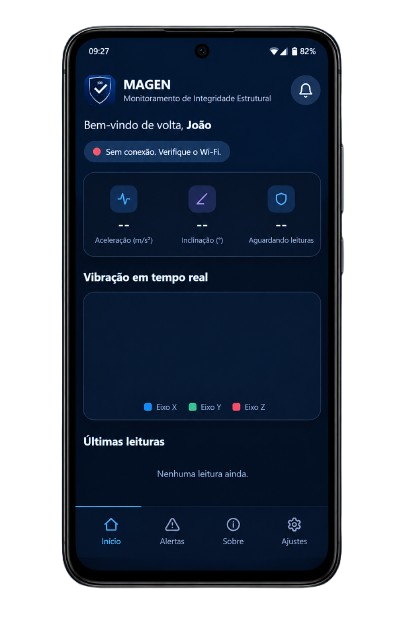
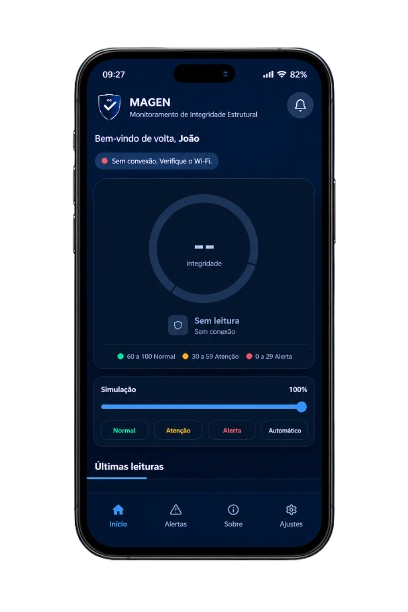
Adição de âncora na seção conheça o app!

Changed region(s): [[0.1489, 0.031, 0.8635, 0.9624], [0.268, 0.5588, 0.4169, 0.5899]]

diff --git a/index.html b/index.html
@@ -251,7 +251,7 @@
       </ul>
 
       <div class="app-stores">
-        <a href="#" class="store-btn" aria-label="Baixar na App Store (simulação)">
+        <a href="https://aplicativomagen.vercel.app/?sim" class="store-btn" aria-label="Baixar na App Store (simulação)">
           <svg viewBox="0 0 24 24" fill="none" stroke="currentColor" stroke-width="2" stroke-linecap="round" stroke-linejoin="round" aria-hidden="true"><path d="M12 3v12"/><path d="m7 11 5 5 5-5"/><path d="M5 20h14"/></svg>
           <span><small>Ver</small>Aplicativo</span>
         </a>
